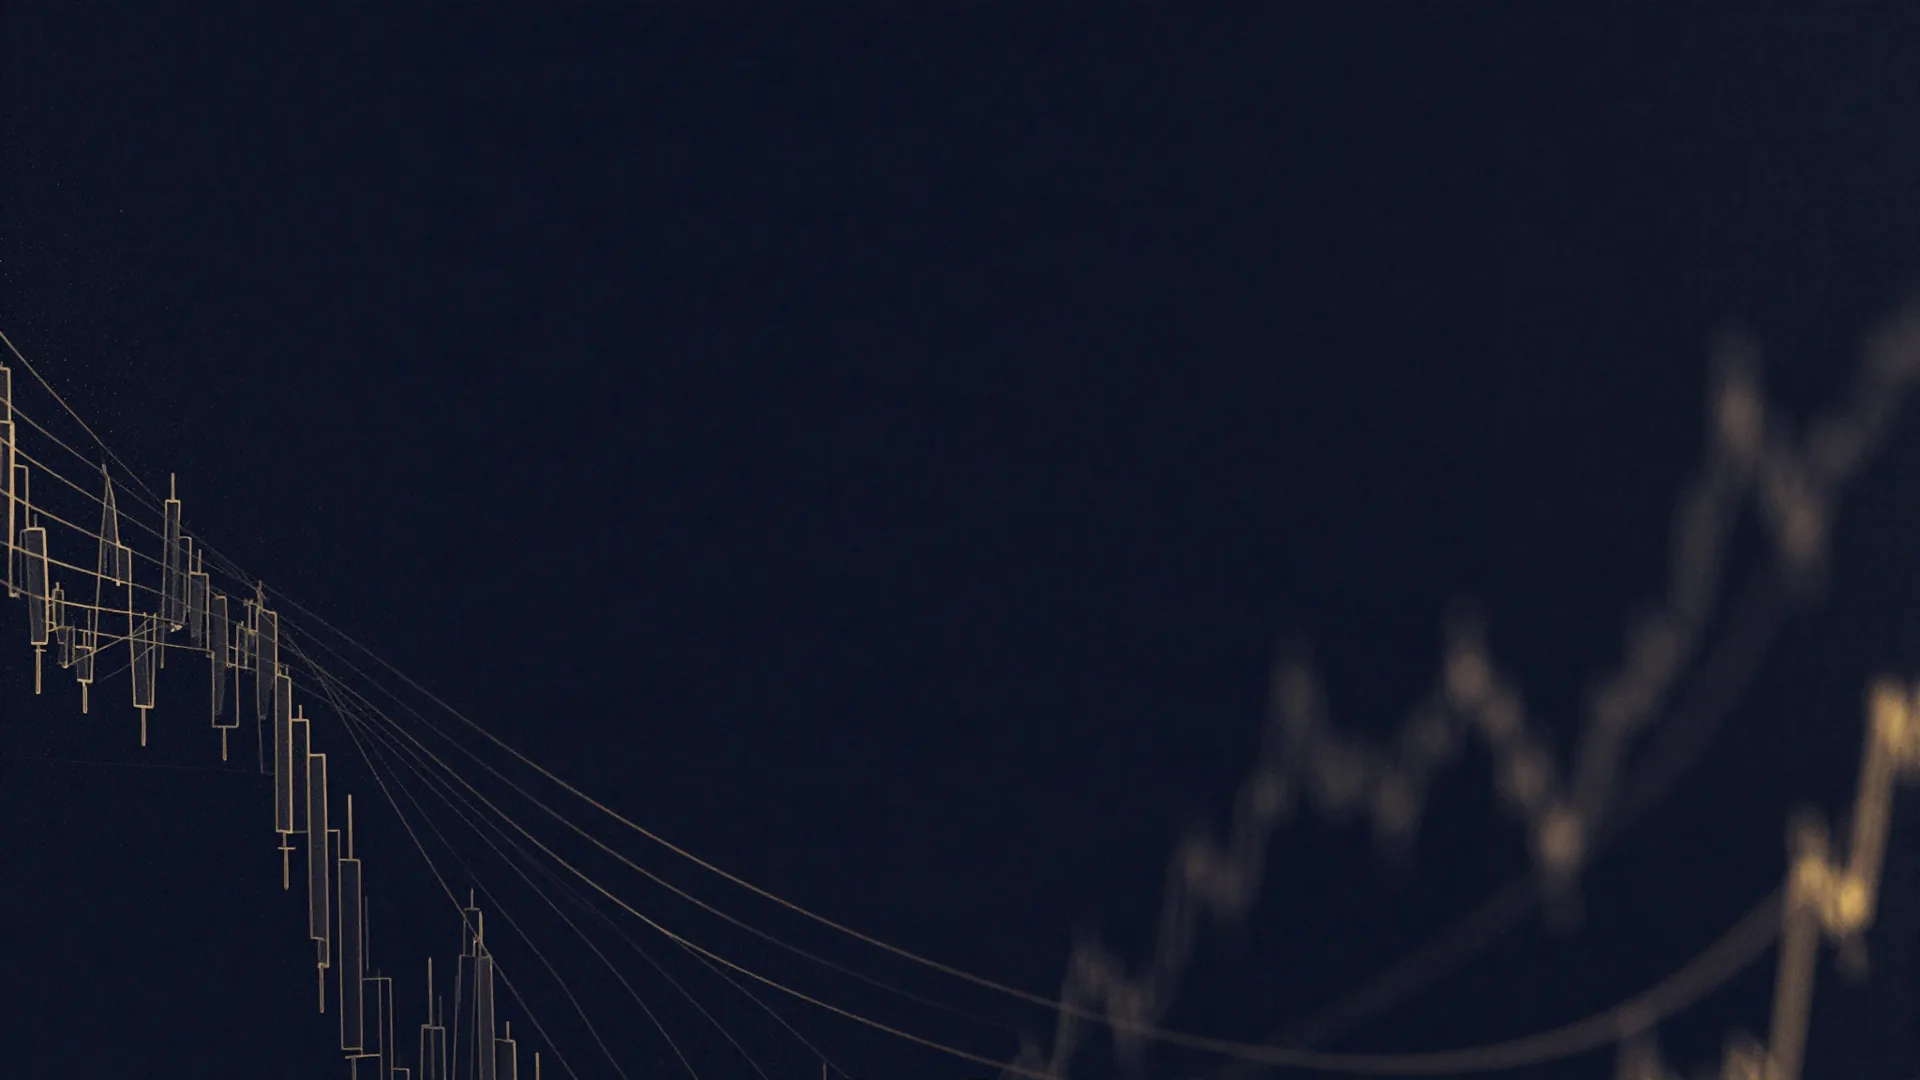
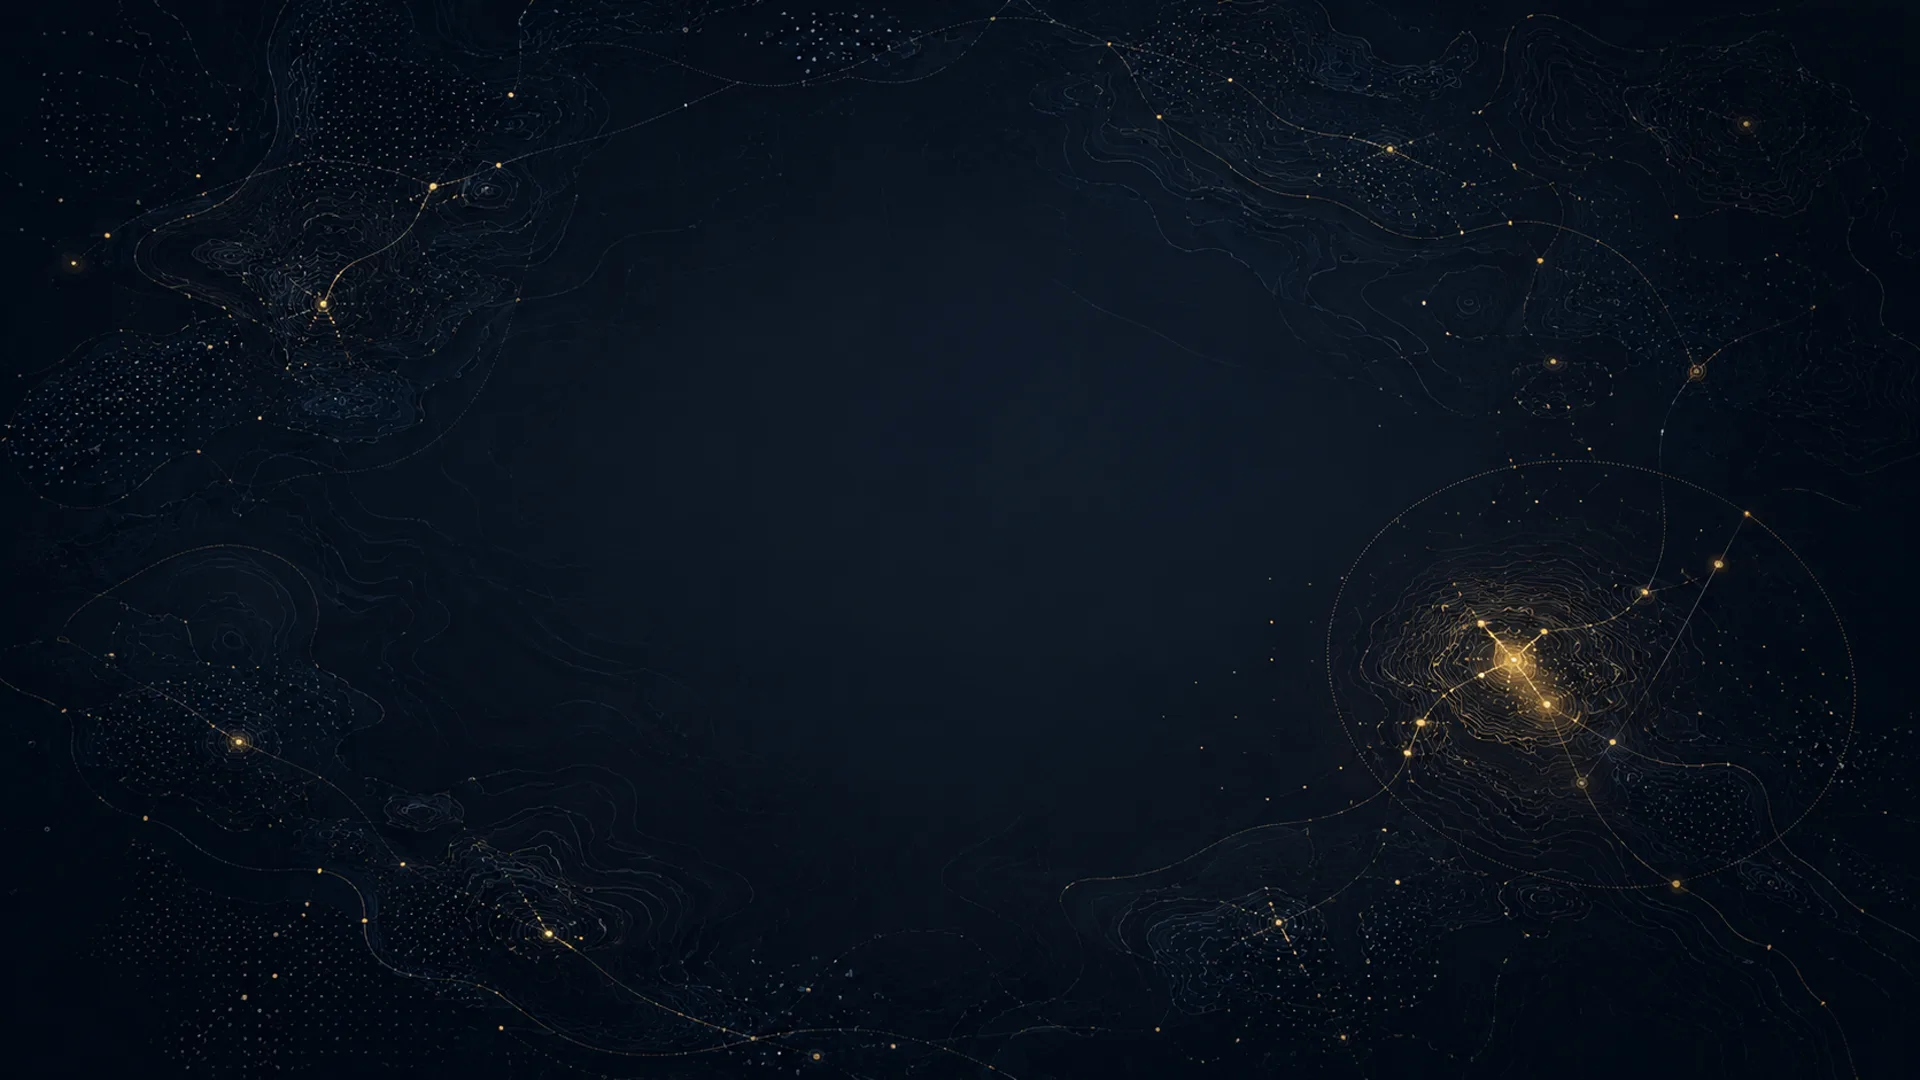
feat(demo): arte de fundo nova e camada de movimento na tela de acesso
Substitui as duas artes de fundo por composicao mais rica (nos dourados,
linha de conexao, nucleo de brilho, textura topografica) e adiciona
movimento decorativo sutil por cima, tudo em CSS/SVG, sem JavaScript.

Arte, docs/go-to-market/atlas-bg-desktop.webp e atlas-bg-mobile.webp
- Mesmo caminho, mesmo nome: nao mexe em EXTRAS_BINARIO, .gitignore nem
  build-deploy.mjs, a allowlist ja cobre pelo caminho, nao pelo conteudo.
- 112,98 KB e 55,74 KB (eram 42,6 e 13,8). Mais pesado porque a arte tem
  mais detalhe fino (textura topografica); sem banding no degrade escuro.

Movimento, demo-worker/src/landing.js (unico arquivo de codigo tocado)
- Dois <svg> inline, um por composicao (mesmo criterio do <picture><source>
  ja existente: mobile tem layout proprio, nao e o desktop cortado).
  viewBox na resolucao nativa de cada arte + preserveAspectRatio="xMidYMid
  slice" reproduz o mesmo corte do object-fit:cover, entao as formas ficam
  registradas com os clusters reais da textura em qualquer proporcao.
- No pulsando (opacidade+escala, delay negativo por elemento, assincrono
  desde o primeiro frame), linha com stroke-dashoffset fluindo devagar,
  nucleo respirando sobre o brilho que a propria arte ja tem no canto
  inferior direito, dois blob de micro-brilho com mix-blend-mode:screen
  (so nestes, nao na camada toda) sobre a textura de mercado, particula
  com fade lento. So opacity/transform, nunca filter animado em elemento
  cheio de tela.
[…]

diff --git a/demo-worker/src/landing.js b/demo-worker/src/landing.js
@@ -14,15 +14,25 @@
 // as duas telas sem pedir fonte externa, o que a CSP desta pagina nao permite.
 //
 // Movimento: o hero do multi-assets.com faz a aproximacao dentro de um video.
-// Aqui nao ha video (o plano da conta Higgsfield recusa modelo de video), e a
-// mesma sensacao e reproduzida em CSS com translateZ sob perspectiva, que e
-// aproximacao de camera de verdade e nao um scale achatado. So transform e
-// opacity, sem biblioteca, sem JavaScript (a CSP nao tem script-src).
+// Aqui nao ha video, e a mesma sensacao de camera e reproduzida em CSS com
+// translateZ sob perspectiva, aproximacao de verdade e nao um scale achatado.
 //
-// O fundo e arte sintetica gerada no Higgsfield, nunca captura de tela: nao ha
-// dado de carteira nenhum dentro dela. Duas composicoes distintas, a de celular
-// foi enquadrada com as velas no topo e no rodape e uma faixa central vazia,
-// que e onde o formulario cai. Nao e o desktop cortado.
+// Por cima do fundo, dois <svg> inline (um por composicao, mesmo criterio do
+// <picture><source> abaixo) desenham uma camada de movimento decorativo: no
+// pulsando, linha com fluxo, nucleo respirando, brilho sutil sobre a textura
+// de mercado, particula com fade. So opacity/transform, nunca filter animado
+// em elemento cheio de tela. Inline por ser a solucao de menor complexidade,
+// zero requisicao nova, zero entrada em EXTRAS_BINARIO, zero mudanca de CSP:
+// SVG dentro do HTML nao e recurso externo, nao passa por img-src nem por
+// script-src. Continua sem JavaScript (a CSP nao tem script-src) e sem
+// biblioteca: os keyframes leem as MESMAS variaveis --z-inicio/--escala-inicio
+// /--dolly do fundo, entao a camada nova acompanha a mesma aproximacao de
+// camera em vez de flutuar solta por cima da arte.
+//
+// O fundo e arte sintetica (nao ha dado de carteira nenhum dentro dela). Duas
+// composicoes distintas, a de celular tem layout proprio, nao e o desktop
+// cortado. As duas reservam uma faixa central calma, onde o formulario cai;
+// os nos/linhas/particulas novos ficam so na margem, nunca nessa faixa.
 
 const BG_DESKTOP = '/atlas-bg-desktop.webp';
 const BG_MOBILE = '/atlas-bg-mobile.webp';
@@ -117,6 +127,114 @@ body {
 @keyframes dolly {
   from { transform: translate3d(0, 0.8%, var(--z-inicio)) scale(var(--escala-inicio)); }
   to   { transform: translate3d(0, 0, 0) scale(1.02); }
+}
+
+/* ---------- Camada de movimento (overlay) ----------
+   Dois <svg> inline, um por composicao (mesmo espirito do <picture><source>:
+   celular tem layout proprio, nao e o desktop cortado). O escondido por
+   display:none nao anima nem custa frame, entao nao ha dois conjuntos de
+   animacao rodando ao mesmo tempo. */
+.overlay {
+  position: absolute;
+  inset: 0;
+  width: 100%;
+  height: 100%;
+  pointer-events: none;
+  transform: translate3d(0, 0, var(--z-inicio)) scale(var(--escala-inicio));
+  will-change: transform;
+  animation: dolly var(--dolly) cubic-bezier(0.16, 1, 0.3, 1) forwards;
+}
+
+.overlay--desktop { display: none; }
+
+@media (min-width: 768px) {
+  .overlay--mobile { display: none; }
+  .overlay--desktop { display: block; }
+}
+
+/* Atraso/duracao por node, para o pulso nao nascer sincronizado. Delay
+   negativo comeca a animacao ja em andamento no primeiro frame, entao a
+   assincronia existe desde o load, nao so depois de alguns ciclos. */
+.t1 { animation-delay: -1.4s; animation-duration: 6.5s; }
+.t2 { animation-delay: -3.1s; animation-duration: 7.5s; }
+.t3 { animation-delay: -0.6s; animation-duration: 8.5s; }
+.t4 { animation-delay: -4.2s; animation-duration: 5.8s; }
+.t5 { animation-delay: -2.3s; animation-duration: 9s; }
+.t6 { animation-delay: -5.5s; animation-duration: 7s; }
+
+.no {
+  fill: var(--ouro-claro);
+  opacity: .55;
+  transform-box: fill-box;
+  transform-origin: center;
+  animation-name: no-pulsar;
+  animation-timing-function: ease-in-out;
+  animation-iteration-count: infinite;
+}
+
+@keyframes no-pulsar {
+  0%, 100% { opacity: .5; transform: scale(1); }
+  50%      { opacity: 1;  transform: scale(1.4); }
+}
+
+/* dasharray fixo (curto + vazio) em vez de calculado por path: para linha
+   curta e sutil como estas, um leve descompasso no ponto de emenda nao se
+   nota, e evita medir o comprimento exato de cada curva. */
+.linha {
+  fill: none;
+  stroke: var(--ouro);
+  stroke-width: 1.4;
+  stroke-linecap: round;
+  opacity: .5;
+  stroke-dasharray: 7 340;
+  animation-name: fluir;
+  animation-timing-function: linear;
+  animation-iteration-count: infinite;
+}
+
+@keyframes fluir { to { stroke-dashoffset: -347; } }
+
+.nucleo {
+  opacity: .55;
+  transform-box: fill-box;
+  transform-origin: center;
+  animation: nucleo-respirar 8s ease-in-out infinite;
+}
+
+@keyframes nucleo-respirar {
+  0%, 100% { opacity: .45; transform: scale(1); }
+  50%      { opacity: .8;  transform: scale(1.14); }
+}
+
+/* Unico grupo com mix-blend-mode, e so nele: blend em elemento cheio de tela
+   tem custo de composicao real, e as outras camadas ja leem como brilho com
+   dourado semitransparente simples, sem precisar somar luz com o fundo. Aqui
+   precisa, porque o objetivo e "acender" a textura de mercado que ja existe
+   na arte, nao desenhar um borrao por cima dela. */
+.brilho {
+  opacity: .2;
+  mix-blend-mode: screen;
+  animation-name: brilho-sutil;
+  animation-timing-function: ease-in-out;
+  animation-iteration-count: infinite;
+}
+
+@keyframes brilho-sutil {
+  0%, 100% { opacity: .16; }
+  50%      { opacity: .36; }
+}
+
+.particula {
+  opacity: 0;
+  fill: var(--ouro-claro);
+  animation-name: particula-fade;
+  animation-timing-function: ease-in-out;
+  animation-iteration-count: infinite;
+}
+
+@keyframes particula-fade {
+  0%, 100% { opacity: 0; }
+  50%      { opacity: .5; }
 }
 
 /* ---------- Veu de leitura ----------
@@ -384,6 +502,13 @@ input:focus-visible { outline: 2px solid var(--ouro-claro); outline-offset: 2px;
     backdrop-filter: none;
     -webkit-backdrop-filter: none;
   }
+  .overlay {
+    animation: none;
+    transform: scale(1.02);
+  }
+  .overlay circle, .overlay path {
+    animation: none;
+  }
   *, *::before, *::after {
     animation-duration: 0.01ms !important;
     animation-iteration-count: 1 !important;
@@ -396,6 +521,79 @@ const escapar = (s) =>
   String(s).replace(/[&<>"']/g, (c) =>
     ({ '&': '&amp;', '<': '&lt;', '>': '&gt;', '"': '&quot;', "'": '&#39;' })[c]
   );
+
+// Camada de movimento, desktop. viewBox na resolucao nativa da arte
+// (1672x941) + preserveAspectRatio="xMidYMid slice" reproduz o mesmo corte
+// que object-fit:cover faz na imagem, entao coordenada de pixel aqui cai
+// sobre o cluster real da textura em qualquer proporcao de tela. Coordenadas
+// tiradas a olho da propria arte: no principal de cada canto + um secundario,
+// o nucleo exatamente sobre o brilho que ja existe no canto inferior direito.
+// Estatico, sem entrada de usuario nenhuma: nao precisa passar por escapar().
+const overlayDesktop = `<svg class="overlay overlay--desktop" width="1672" height="941"
+     viewBox="0 0 1672 941" preserveAspectRatio="xMidYMid slice" aria-hidden="true" focusable="false">
+  <defs>
+    <radialGradient id="nucleoGradD" cx="50%" cy="50%" r="50%">
+      <stop offset="0%" stop-color="#F4D998" stop-opacity="0.9" />
+      <stop offset="35%" stop-color="#D8BC84" stop-opacity="0.5" />
+      <stop offset="100%" stop-color="#D8BC84" stop-opacity="0" />
+    </radialGradient>
+    <radialGradient id="brilhoGradD" cx="50%" cy="50%" r="50%">
+      <stop offset="0%" stop-color="#D8BC84" stop-opacity="0.85" />
+      <stop offset="100%" stop-color="#D8BC84" stop-opacity="0" />
+    </radialGradient>
+  </defs>
+  <circle class="brilho" cx="180" cy="150" r="90" fill="url(#brilhoGradD)" />
+  <circle class="brilho" cx="350" cy="830" r="80" fill="url(#brilhoGradD)" />
+  <path class="linha t2" d="M83,200 Q185,230 288,262" />
+  <path class="linha t4" d="M1211,100 Q1360,90 1515,83" />
+  <path class="linha t6" d="M204,649 Q340,720 483,789" />
+  <circle class="no t1" cx="288" cy="262" r="5" />
+  <circle class="no t3" cx="83" cy="200" r="3" />
+  <circle class="no t2" cx="1211" cy="100" r="5" />
+  <circle class="no t5" cx="1515" cy="83" r="3" />
+  <circle class="no t4" cx="204" cy="649" r="5" />
+  <circle class="no t6" cx="483" cy="789" r="3" />
+  <circle class="no t1" cx="1385" cy="601" r="3.5" />
+  <circle class="nucleo" cx="1324" cy="562" r="70" fill="url(#nucleoGradD)" />
+  <circle class="particula t2" cx="150" cy="380" r="2" />
+  <circle class="particula t4" cx="1590" cy="250" r="1.8" />
+  <circle class="particula t6" cx="120" cy="550" r="2" />
+  <circle class="particula t3" cx="1450" cy="750" r="1.8" />
+  <circle class="particula t5" cx="480" cy="880" r="2" />
+</svg>`;
+
+// Camada de movimento, mobile. Mesma tecnica, viewBox 941x1672 (nativo da
+// arte de celular), composicao propria: os quatro clusters ficam mais perto
+// das bordas verticais porque a imagem e mais estreita.
+const overlayMobile = `<svg class="overlay overlay--mobile" width="941" height="1672"
+     viewBox="0 0 941 1672" preserveAspectRatio="xMidYMid slice" aria-hidden="true" focusable="false">
+  <defs>
+    <radialGradient id="nucleoGradM" cx="50%" cy="50%" r="50%">
+      <stop offset="0%" stop-color="#F4D998" stop-opacity="0.9" />
+      <stop offset="35%" stop-color="#D8BC84" stop-opacity="0.5" />
+      <stop offset="100%" stop-color="#D8BC84" stop-opacity="0" />
+    </radialGradient>
+    <radialGradient id="brilhoGradM" cx="50%" cy="50%" r="50%">
+      <stop offset="0%" stop-color="#D8BC84" stop-opacity="0.85" />
+      <stop offset="100%" stop-color="#D8BC84" stop-opacity="0" />
+    </radialGradient>
+  </defs>
+  <circle class="brilho" cx="110" cy="140" r="55" fill="url(#brilhoGradM)" />
+  <circle class="brilho" cx="200" cy="1330" r="50" fill="url(#brilhoGradM)" />
+  <path class="linha t2" d="M62,109 Q120,140 165,171" />
+  <path class="linha t5" d="M795,267 Q820,300 835,330" />
+  <circle class="no t1" cx="165" cy="171" r="4.5" />
+  <circle class="no t3" cx="62" cy="109" r="3" />
+  <circle class="no t2" cx="795" cy="267" r="4.5" />
+  <circle class="no t4" cx="835" cy="330" r="3" />
+  <circle class="no t6" cx="170" cy="1273" r="4.5" />
+  <circle class="no t1" cx="307" cy="1386" r="3" />
+  <circle class="nucleo" cx="694" cy="1284" r="42" fill="url(#nucleoGradM)" />
+  <circle class="particula t2" cx="75" cy="420" r="1.8" />
+  <circle class="particula t4" cx="860" cy="420" r="1.6" />
+  <circle class="particula t6" cx="90" cy="1150" r="1.8" />
+  <circle class="particula t3" cx="830" cy="1000" r="1.6" />
+</svg>`;
 
 /**
  * HTML da tela de acesso.
@@ -427,6 +625,8 @@ export function paginaLogin({ erro, cadastrarPath, loginPath }) {
       <img class="cena__img" src="${BG_DESKTOP}" alt="" width="1920" height="1080"
            decoding="async" fetchpriority="high" />
     </picture>
+    ${overlayMobile}
+    ${overlayDesktop}
   </div>
   <div class="veu" aria-hidden="true"></div>
 

diff --git a/tests/validate.js b/tests/validate.js
@@ -1111,6 +1111,59 @@ ok('alvo de toque de campo e botão tem ao menos 48px',
 ok('visual da tela vive fora do arquivo do portão',
   /import \{ paginaLogin \} from '\.\/landing\.js'/.test(gateJs) && !/<!doctype html>/i.test(gateJs));
 
+// ─── 17b.2 Camada de movimento (overlay SVG) da tela de acesso ─────────────
+//
+// A arte de fundo ganhou nó pulsando, linha fluindo, núcleo respirando e
+// partícula com fade, tudo em SVG inline sobre a imagem, em 2026-09-01. Cinco
+// coisas podem quebrar em silêncio aqui, e por isso travam neste portão:
+//
+//   1. SVG aceita atributo de evento (onclick=, onmouseover=...) como
+//      markup válido, sem precisar de <script> em lugar nenhum. É um jeito
+//      de JavaScript entrar na tela que o check de <script> não pega.
+//   2. A camada decorativa passa a capturar clique ou passa a ser lida por
+//      leitor de tela, competindo com o formulário que ela deveria só
+//      decorar por trás.
+//   3. Alguém anima `filter` numa `@keyframes` nova — custo de composição
+//      real num elemento que cobre a tela inteira, o motivo de esta tela
+//      nunca ter usado filter animado.
+//   4. Uma forma do overlay passa a referenciar arquivo externo, o que
+//      reabriria a CSP (img-src) que este SVG inline foi desenhado para
+//      não precisar tocar.
+//   5. `prefers-reduced-motion` para de neutralizar as formas novas.
+
+ok('overlay não introduz atributo de evento inline (on*=)',
+  !/\son\w+\s*=/i.test(landingJs));
+
+ok('camada decorativa não intercepta ponteiro',
+  /\.overlay\s*\{[^}]*pointer-events:\s*none/.test(landingJs));
+
+ok('os dois SVG do overlay são decorativos para leitor de tela',
+  (landingJs.match(/<svg class="overlay[^"]*"[^>]*aria-hidden="true"/g) || []).length === 2);
+
+{
+  const keyframesComFilter = [...landingJs.matchAll(/@keyframes\s+[\w-]+\s*\{([\s\S]*?)\n\}/g)]
+    .filter(([, corpo]) => /filter\s*:/.test(corpo));
+  ok('nenhuma @keyframes anima filter (custo de composição em elemento cheio de tela)',
+    keyframesComFilter.length === 0,
+    keyframesComFilter.map((m) => m[0].split('{')[0].trim()).join(', '));
+}
+
+ok('overlay não referencia recurso externo (só forma nativa do SVG)',
+  !/<image\b/i.test(landingJs) && !/xlink:href\s*=\s*"(?!#)/i.test(landingJs));
+
+ok('prefers-reduced-motion neutraliza as formas do overlay',
+  /@media \(prefers-reduced-motion: reduce\)[\s\S]*?\.overlay circle, \.overlay path \{\s*animation: none;/.test(landingJs));
+
+ok('os dois SVG do overlay existem, um por composição, no viewBox nativo de cada arte',
+  landingJs.includes('viewBox="0 0 1672 941"') && landingJs.includes('viewBox="0 0 941 1672"'));
+
+ok('overlay desktop fica escondido por padrão e revelado só a partir de 768px',
+  /\.overlay--desktop \{ display: none; \}/.test(landingJs)
+  && /@media \(min-width: 768px\) \{\s*\.overlay--mobile \{ display: none; \}\s*\.overlay--desktop \{ display: block; \}/.test(landingJs));
+
+ok('overlay usa a MESMA animação dolly do fundo (fica registrado com a arte ao aproximar)',
+  /\.overlay \{[^}]*animation: dolly var\(--dolly\)/.test(landingJs));
+
 // ─── 17c. Painel do dono: perímetro e natureza dos contadores ──────────────
 //
 // O comportamento está em tests/admin-perimetro.test.mjs. Aqui ficam as
